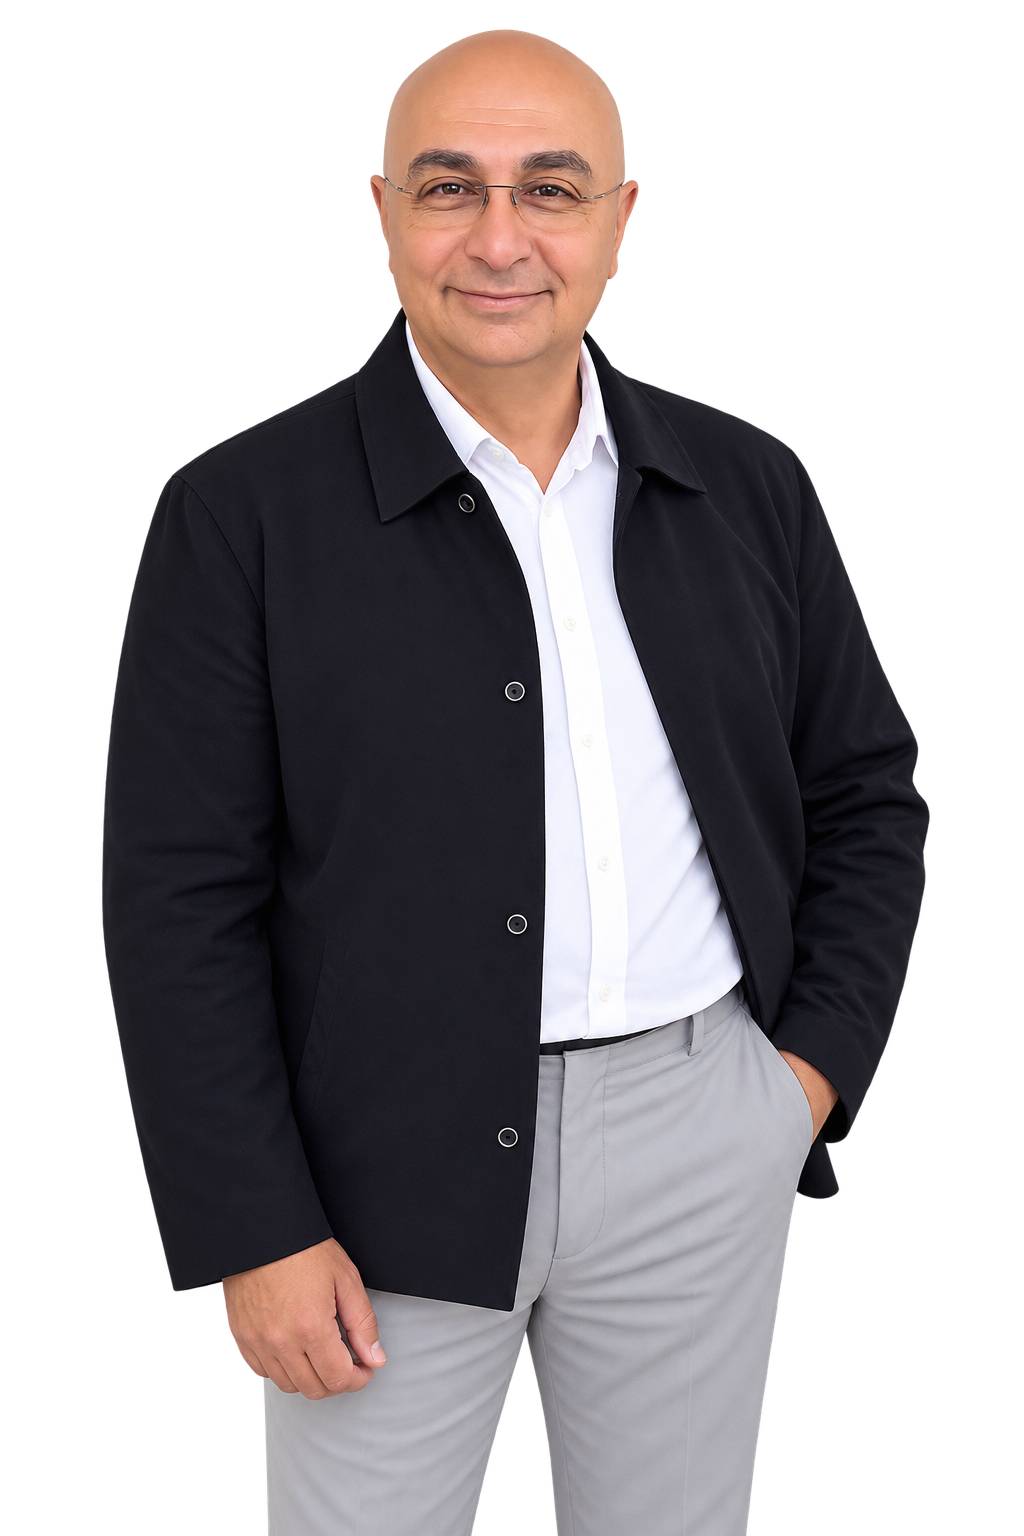
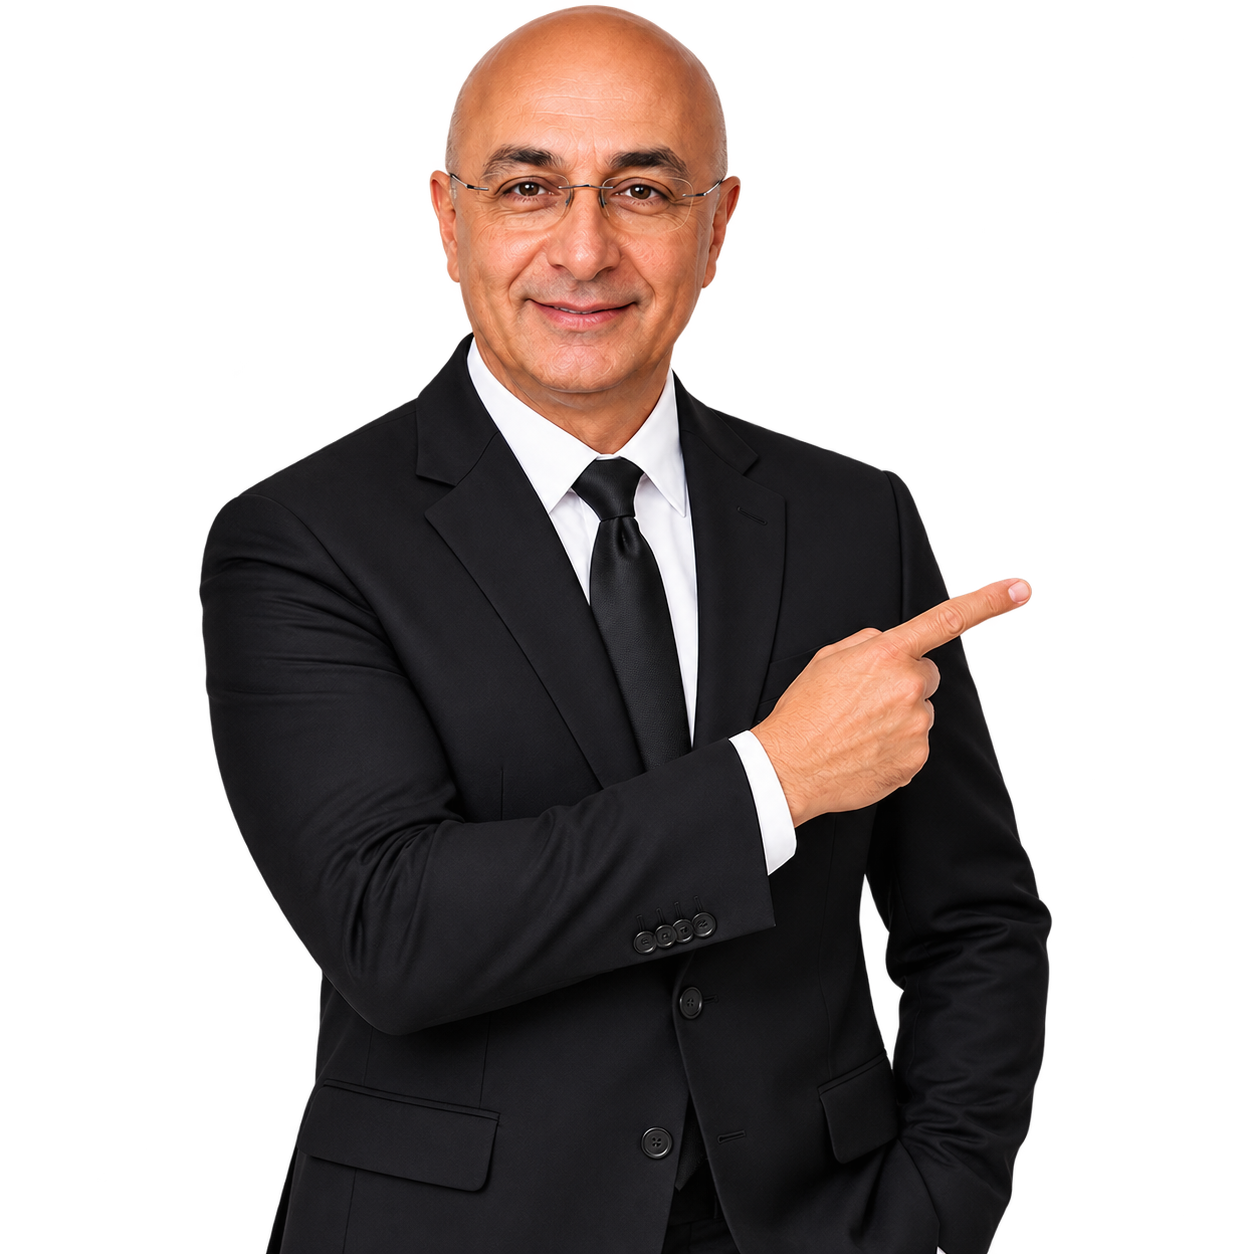
Update Hero image and layout and change contact links to use a consistent path

diff --git a/src/components/home/HeroSection.tsx b/src/components/home/HeroSection.tsx
@@ -1,122 +1,41 @@
 import Image from "next/image";
+import Link from "next/link";
+
 import Container from "@/components/common/Container";
-import Button from "@/components/common/Button";
 
 export default function HeroSection() {
   return (
-    <section className="w-full bg-surface min-w-0 overflow-x-clip">
+    <section className="w-full min-w-0 pt-8 overflow-hidden bg-surface">
       <Container
         className="
           grid
           w-full
-          max-w-full
           min-w-0
+          max-w-full
           grid-cols-1
-          items-center
-          gap-6
-          py-8
-          sm:py-10
-          lg:grid-cols-[54%_46%]
-          lg:gap-0
+          items-stretch
+          gap-0
+          lg:grid-cols-[38%_62%]
           lg:py-0
         "
       >
-        {/* Hero Content */}
-        <div className="relative z-10 min-w-0 max-w-2xl">
-          <h1 className="text-[2.75rem] font-bold leading-[1.05] tracking-[-0.03em] text-navy sm:text-5xl lg:text-[3.5rem] xl:text-[3.75rem]">
-            <span className="block">Got a mortgage</span>
-            <span className="block">question?</span>
-            <span className="block text-brand">Talk2Abe.</span>
-          </h1>
-
-          <p className="mt-4 max-w-[520px] text-base leading-7 text-navy/80 sm:text-lg">
-            Get straightforward answers from Abe,
-            <span className="block">your mortgage expert.</span>
-          </p>
-
-          {/* Question Search */}
-          <form
-            action="/ask-abe"
-            method="get"
-            role="search"
-            className="
-              mt-7
-              box-border
-              flex
-              w-full
-              max-w-full
-              min-w-0
-              flex-col
-              gap-3
-              rounded-lg
-              border
-              border-slate-300
-              bg-white
-              p-3
-              shadow-sm
-              transition-shadow
-              focus-within:border-brand
-              focus-within:ring-2
-              focus-within:ring-brand/10
-              sm:flex-row
-              sm:items-center
-            "
-          >
-            <input
-              name="q"
-              type="text"
-              placeholder="Type your mortgage question here..."
-              aria-label="Search mortgage questions"
-              className="
-                box-border
-                min-w-0
-                w-full
-                flex-1
-                border-0
-                bg-transparent
-                px-2
-                text-sm
-                shadow-none
-                outline-none
-                focus:border-0
-                focus:ring-0
-                sm:text-base
-              "
-            />
-
-            <Button
-              type="submit"
-              size="md"
-              className="
-                box-border
-                w-full
-                shrink-0
-                rounded-md
-                px-8
-                py-2.5
-                text-sm
-                sm:w-auto
-              "
-            >
-              Ask Abe
-            </Button>
-          </form>
-        </div>
-
         {/* Abe Image */}
         <div
           className="
+            order-2
             relative
             flex
             min-w-0
             w-full
-            max-w-full
-            min-h-[300px]
             items-end
             justify-center
+            self-end
             overflow-hidden
+            sm:min-h-[340px]
+            lg:order-1
+            lg:h-full
             lg:min-h-[430px]
-            lg:justify-end
+            lg:justify-start
           "
         >
           <Image
@@ -127,15 +46,141 @@ export default function HeroSection() {
             priority
             className="
               block
-              h-full
-              max-h-[430px]
+              h-auto
               w-full
-              max-w-full
+              max-w-[500px]
               object-contain
               object-bottom
-              lg:max-w-[620px]
+              sm:max-w-[540px]
+              lg:absolute
+              lg:bottom-0
+              lg:left-0
+              lg:h-full
+              lg:w-auto
+              lg:max-w-none
+              lg:object-contain
+              lg:object-bottom
             "
           />
+        </div>
+
+        {/* Hero Content */}
+        <div
+          className="
+            order-1
+            flex
+            min-w-0
+            flex-col
+            justify-center
+            py-12
+            sm:py-14
+            lg:order-2
+            lg:min-h-[430px]
+            lg:py-16
+            lg:pl-8
+            xl:pl-12
+          "
+        >
+          <div className="max-w-2xl">
+            <h1
+              className="
+                text-[2.75rem]
+                font-bold
+                leading-[1.05]
+                tracking-[-0.035em]
+                text-navy
+                sm:text-5xl
+                lg:text-[3.75rem]
+                xl:text-[4rem]
+              "
+            >
+              <span className="block">Got a</span>
+              <span className="block">mortgage question?</span>
+              <span className="block text-brand">Talk2Abe.</span>
+            </h1>
+
+            <p
+              className="
+                mt-5
+                max-w-xl
+                text-base
+                leading-7
+                text-navy/80
+                sm:text-lg
+                sm:leading-8
+              "
+            >
+              Get straightforward answers and real solutions
+              <span className="block">for your unique situation.</span>
+            </p>
+
+            {/* Hero Actions */}
+            <div
+              className="
+                mt-7
+                flex
+                flex-col
+                gap-3
+                sm:flex-row
+                sm:items-center
+              "
+            >
+              <Link
+                href="/ask-abe"
+                className="
+                  inline-flex
+                  w-full
+                  items-center
+                  justify-center
+                  rounded-lg
+                  bg-brand
+                  px-7
+                  py-3
+                  text-sm
+                  font-semibold
+                  text-white
+                  transition-colors
+                  hover:bg-brand/90
+                  focus:outline-none
+                  focus:ring-2
+                  focus:ring-brand
+                  focus:ring-offset-2
+                  sm:w-auto
+                "
+              >
+                Ask Abe a Question
+              </Link>
+
+              <Link
+                href="/contact"
+                className="
+                  inline-flex
+                  w-full
+                  items-center
+                  justify-center
+                  rounded-lg
+                  border
+                  border-navy
+                  bg-white
+                  px-7
+                  py-3
+                  text-sm
+                  font-semibold
+                  text-navy
+                  transition-colors
+                  hover:bg-navy
+                  hover:text-white
+                  focus:outline-none
+                  focus:ring-2
+                  focus:ring-brand
+                  focus:ring-offset-2
+                  sm:w-auto
+                "
+              >
+                Schedule a Call
+              </Link>
+            </div>
+          </div>
         </div>
       </Container>
     </section>

diff --git a/src/components/common/QuestionAnswer.tsx b/src/components/common/QuestionAnswer.tsx
@@ -7,7 +7,6 @@ import Breadcrumbs from "@/components/common/Breadcrumbs";
 import Container from "@/components/common/Container";
 import CTA from "@/components/common/CTA";
 import RelatedQuestions from "@/components/questions/RelatedQuestions";
-import { siteConfig } from "@/data/site";
 import type { Question } from "@/types/question";
 
 type QuestionAnswerProps = {
@@ -191,7 +190,7 @@ export default function QuestionAnswer({
                   label: "Ask Abe a Question",
                 }}
                 secondaryAction={{
-                  href: siteConfig.contact.phoneHref,
+                  href: "/contact",
                   label: "Schedule a Call",
                 }}
               />

diff --git a/src/components/home/LatestVideoSection.tsx b/src/components/home/LatestVideoSection.tsx
@@ -3,7 +3,6 @@ import path from "node:path";
 import Image from "next/image";
 import Container from "@/components/common/Container";
 import Button from "@/components/common/Button";
-import { siteConfig } from "@/data/site";
 import { videos } from "@/data/videos";
 
 const featuredVideo = videos.find((v) => v.featured);
@@ -67,7 +66,7 @@ export default function LatestVideoSection() {
               Ask Abe a Question
             </Button>
             <Button
-              href={siteConfig.contact.phoneHref}
+              href="/contact"
               variant="outline"
               size="lg"
               className="!border-white/30 !text-white hover:!bg-white/10 hover:!text-white"

diff --git a/src/app/about-abe/page.tsx b/src/app/about-abe/page.tsx
@@ -5,7 +5,6 @@ import HowItWorks from "@/components/about-abe/HowItWorks";
 import WhyChooseAbe from "@/components/about-abe/WhyChooseAbe";
 import Container from "@/components/common/Container";
 import CTA from "@/components/common/CTA";
-import { siteConfig } from "@/data/site";
 
 export const metadata: Metadata = {
   title: "About Abe | Talk2Abe",
@@ -31,7 +30,7 @@ export default function AboutAbePage() {
             label: "Ask Abe a Question",
           }}
           secondaryAction={{
-            href: siteConfig.contact.phoneHref,
+            href: "/contact",
             label: "Schedule a Call",
           }}
         />

diff --git a/src/app/loan-programs/page.tsx b/src/app/loan-programs/page.tsx
@@ -1,7 +1,6 @@
 import Container from "@/components/common/Container";
 import CTA from "@/components/common/CTA";
 import LoanProgramGrid from "@/components/loan-programs/LoanProgramGrid";
-import { siteConfig } from "@/data/site";
 
 export default function LoanProgramsPage() {
   return (
@@ -34,7 +33,7 @@ export default function LoanProgramsPage() {
               label: "Ask Abe a Question",
             }}
             secondaryAction={{
-              href: siteConfig.contact.phoneHref,
+              href: "/contact",
               label: "Schedule a Call",
             }}
           />
